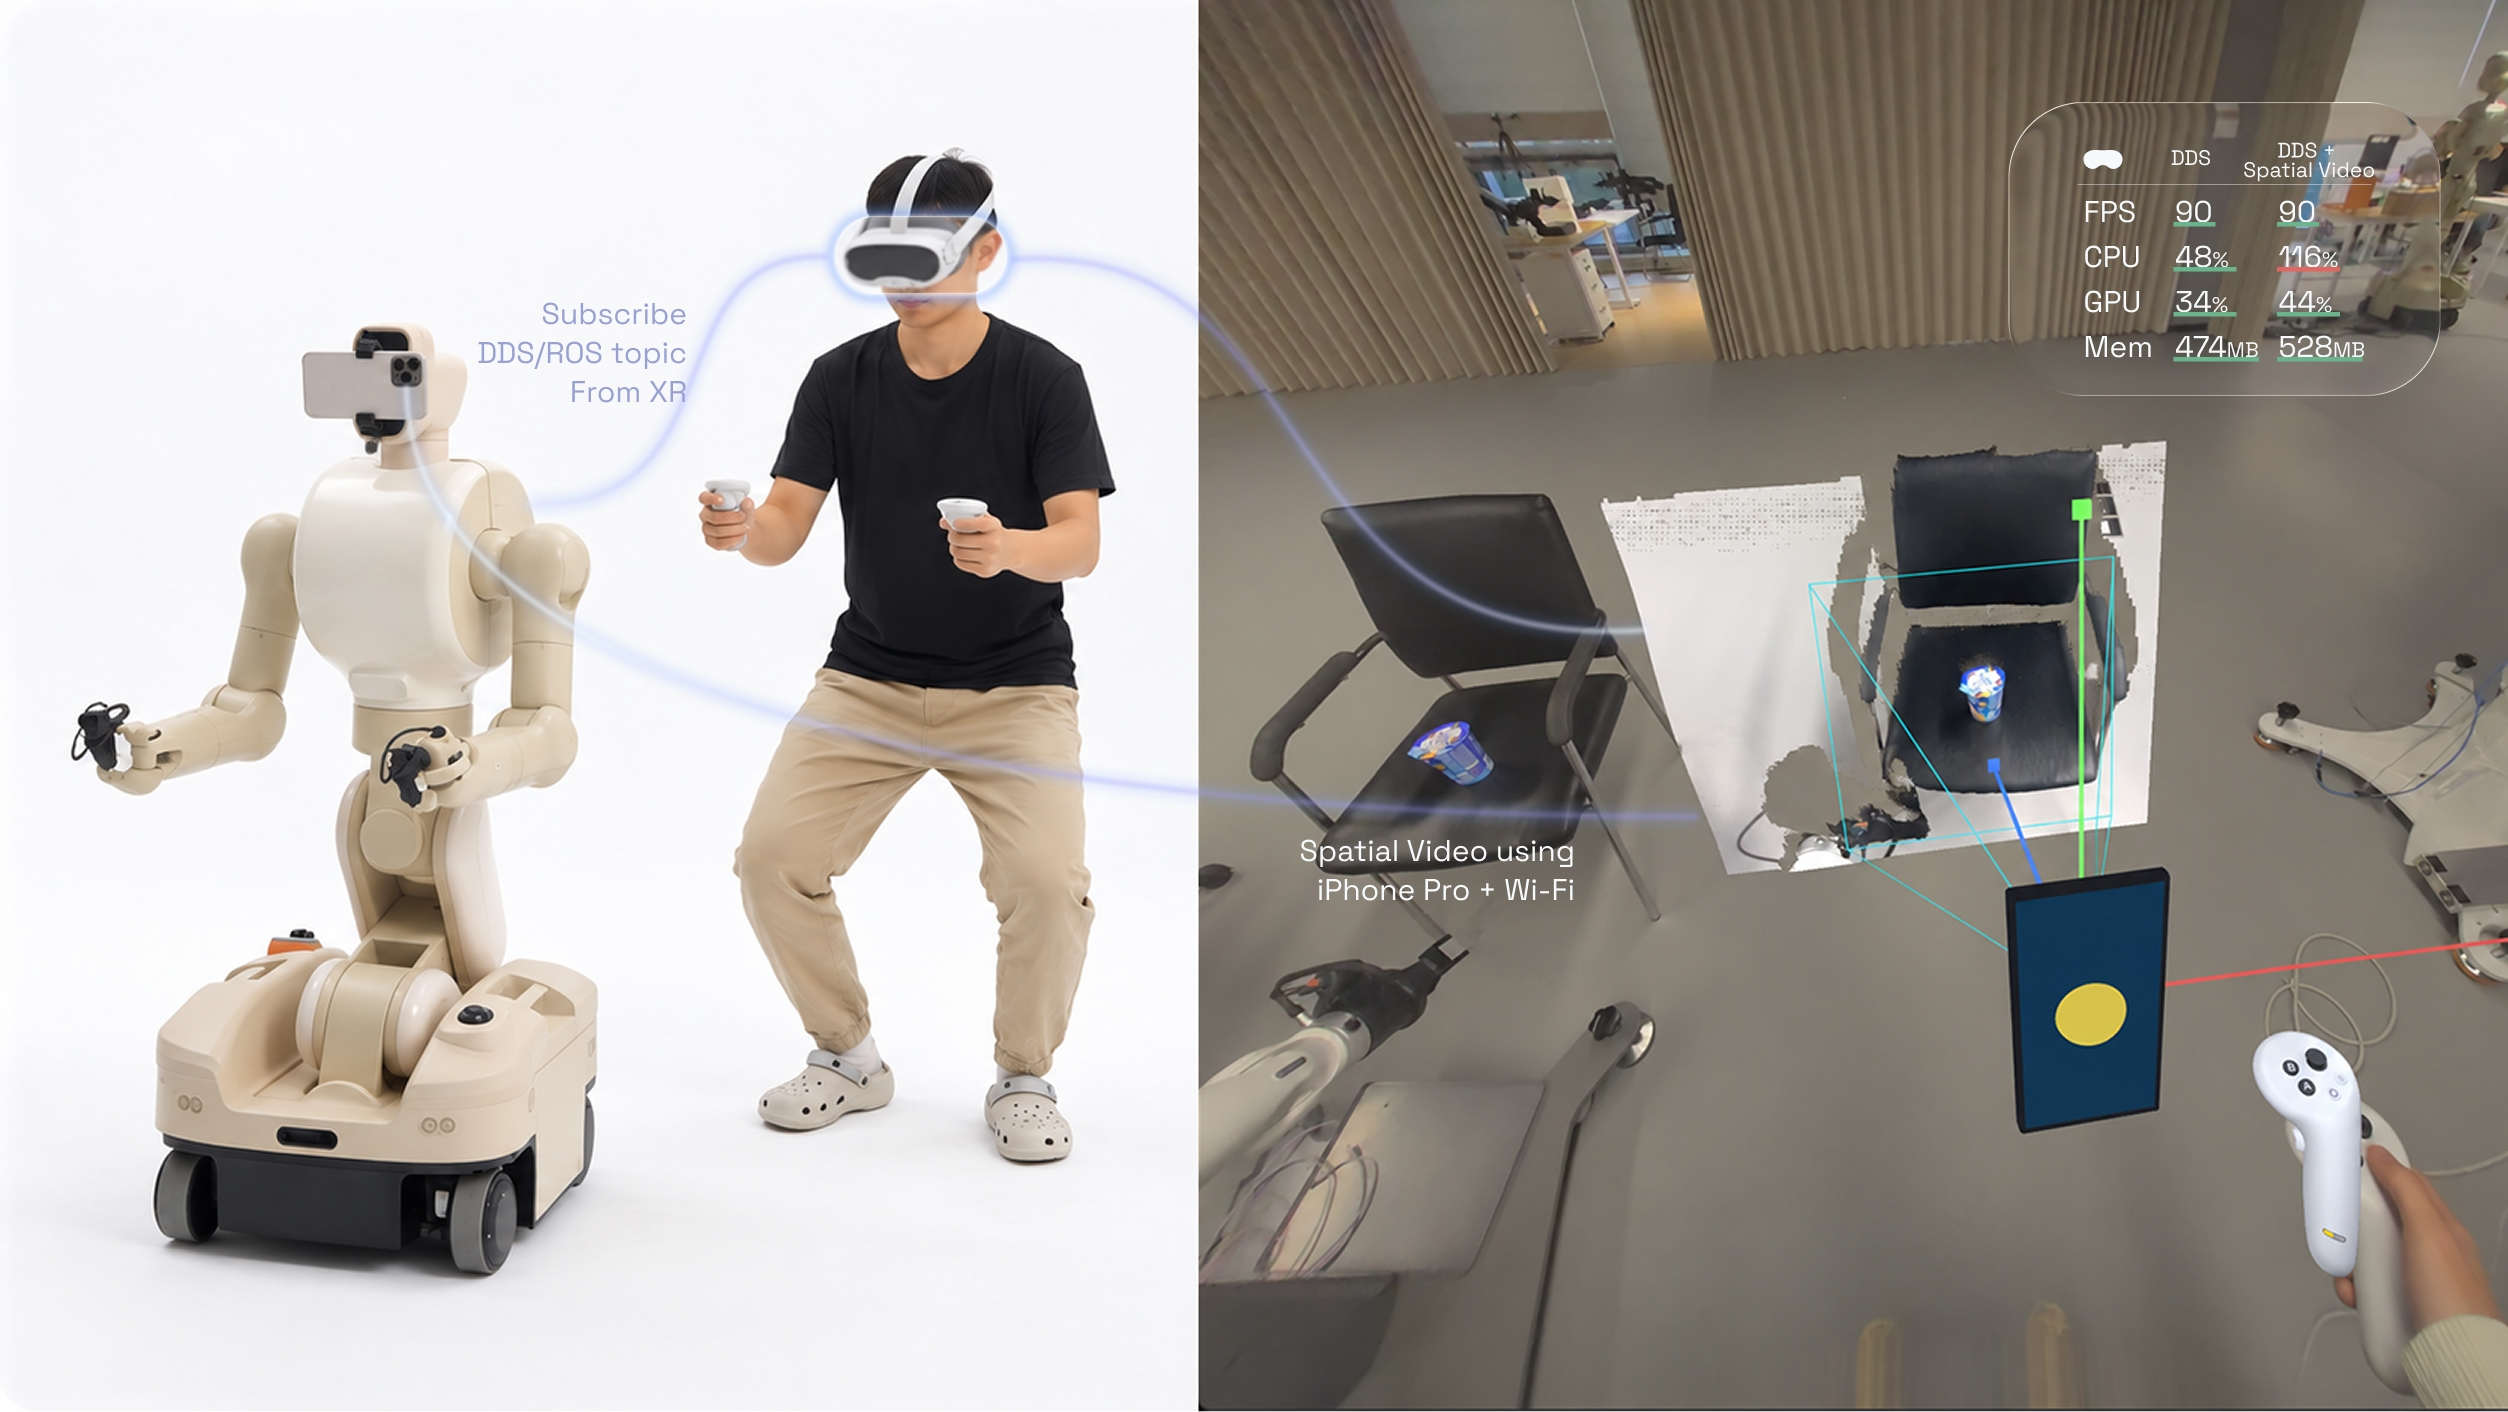
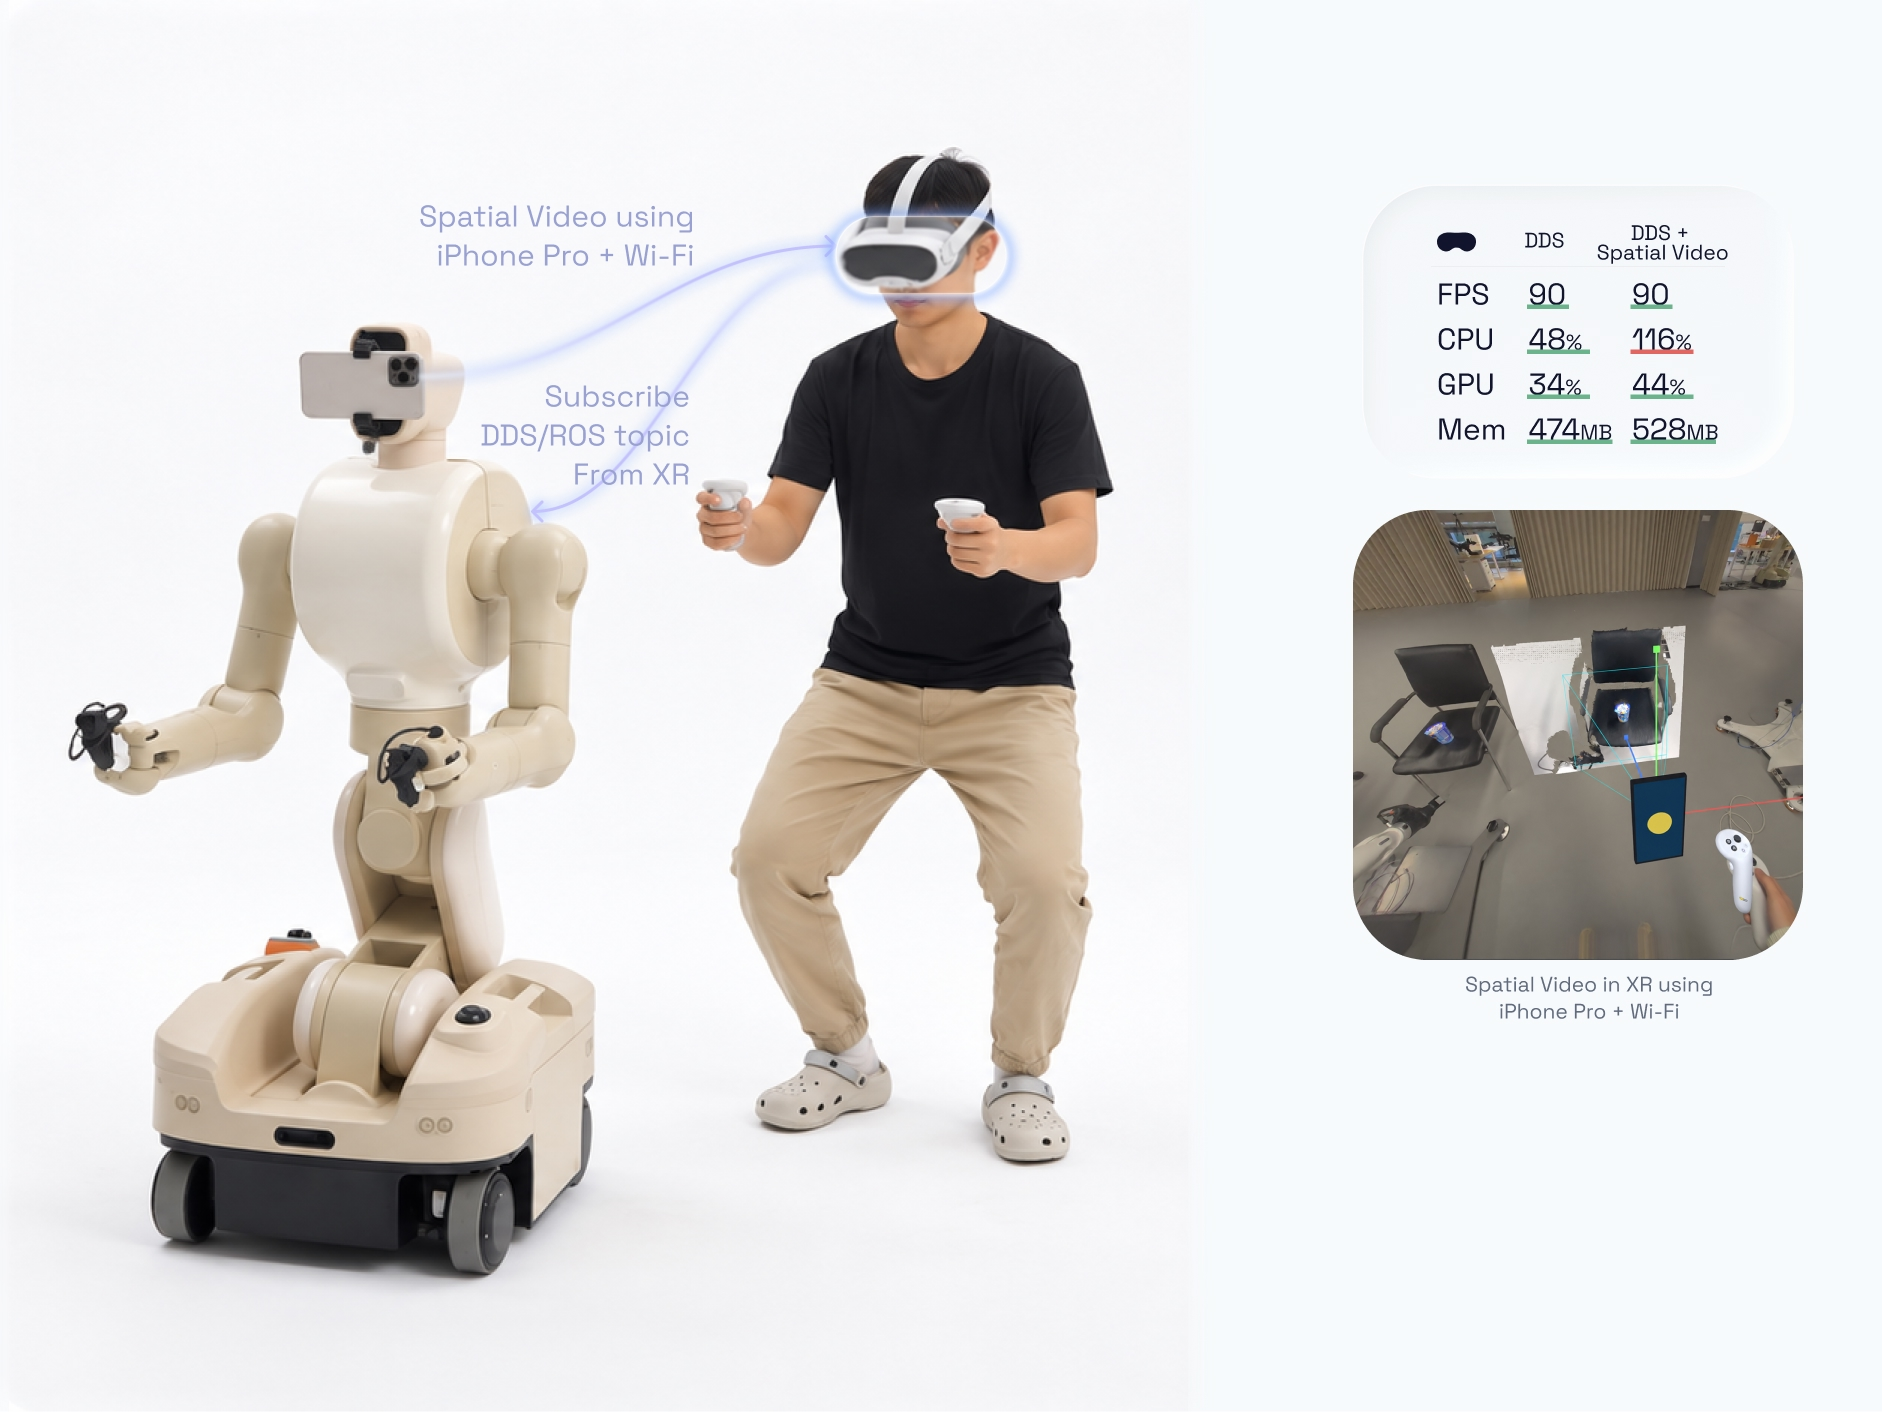
update readme

diff --git a/README.md b/README.md
@@ -11,7 +11,7 @@ Stream headset, controller, and body-tracking data from Meta Quest and PICO dire
 <table align="center">
   <tr>
     <td><img src="./doc/UTXR.jpg" width="600"></td>
-    <td><img src="./doc/UTXRSpatialVideo.gif" width="338"></td>
+    <td><img src="./doc/UTXRSpatialVideo.gif" width="445"></td>
   </tr>
 </table>
 

diff --git a/README_CN.md b/README_CN.md
@@ -11,7 +11,7 @@
 <table align="center">
   <tr>
     <td><img src="./doc/UTXR.jpg" width="600"></td>
-    <td><img src="./doc/UTXRSpatialVideo.gif" width="338"></td>
+    <td><img src="./doc/UTXRSpatialVideo.gif" width="445"></td>
   </tr>
 </table>
 
